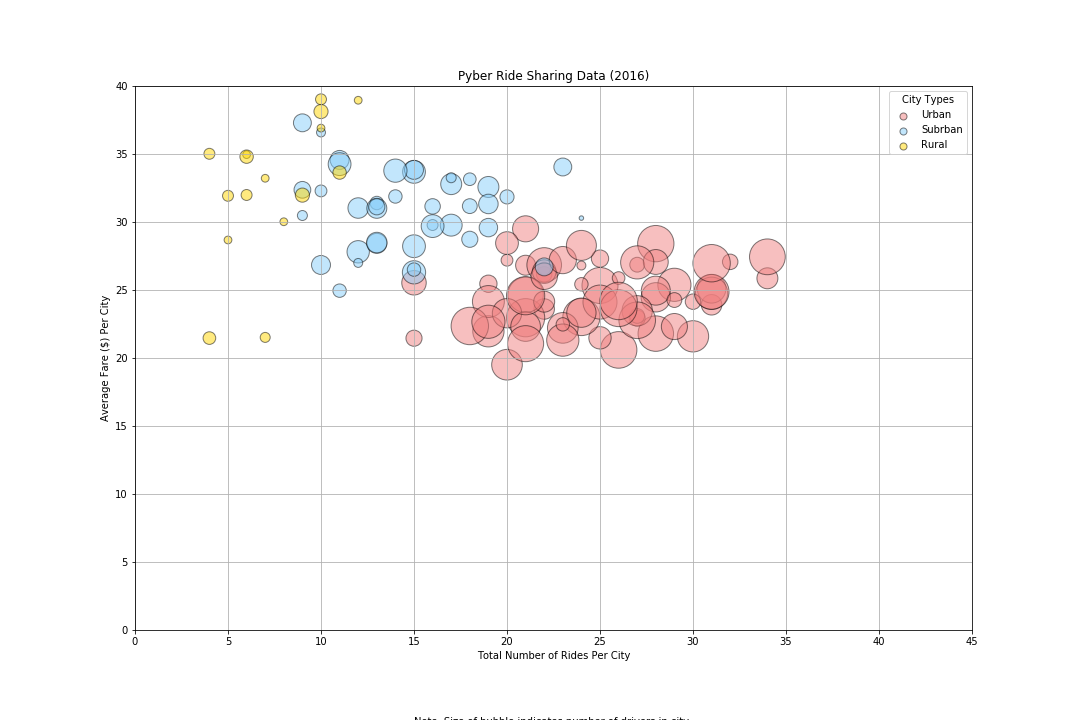
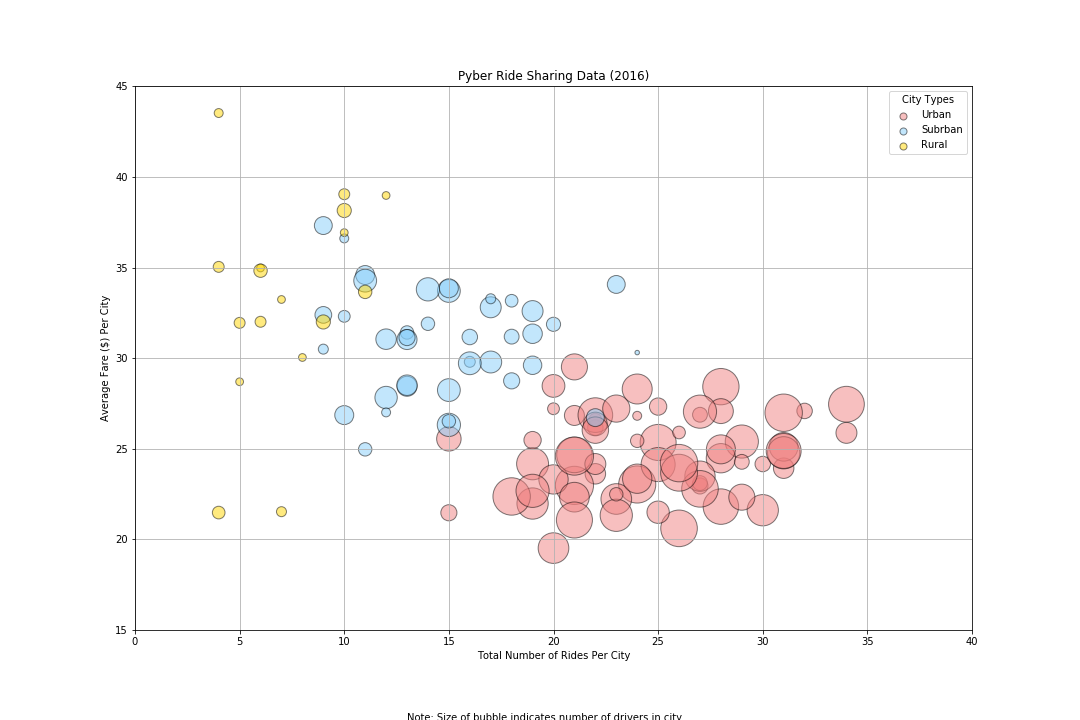
Assignment #5 - Pyber completed

diff --git a/05-MatplotlibInstructions/Pyber.py b/05-MatplotlibInstructions/Pyber.py
@@ -37,7 +37,7 @@ df_city_rides['City Type'] = combined_ride_city.groupby('city')['type'].max()
 df_city_rides.head()
 
 
-# In[20]:
+# In[4]:
 
 
 #Build bubble plots for each city type
@@ -70,11 +70,11 @@ plt.grid()
 plt.title("Pyber Ride Sharing Data (2016)")
 plt.xlabel("Total Number of Rides Per City")
 plt.ylabel("Average Fare ($) Per City")
-plt.xlim (0,45)
-plt.ylim (0,40)
+plt.xlim (0,40)
+plt.ylim (15,45)
 
 note = ("Note: Size of bubble indicates number of drivers in city")
-plt.text (15, -7, note, wrap = True)
+plt.text (13,10, note, wrap = True)
 
 lgnd=plt.legend(loc="upper right", title="City Types", scatterpoints=1)
 lgnd.legendHandles[0]._sizes = [50]
@@ -133,7 +133,7 @@ plt.axis("equal")
 plt.show()
 
 
-# In[38]:
+# In[9]:
 
 
 # Calculate the total drivers by city type
@@ -141,14 +141,14 @@ df_drivers_per_type = pd.DataFrame(df_city_rides.groupby('City Type')['Total Num
 df_drivers_per_type
 
 
-# In[39]:
+# In[10]:
 
 
 # Create a pie chart based upon Total Drivers
 explode = [0.1,0,0]
 colors = ["Gold", "lightskyblue", "lightcoral"]
 
-plt.pie(df_drivers_per_type['Total Number of Drivers Per City'], explode=explode, labels=df_total_drivers_type.index, colors=colors,
+plt.pie(df_drivers_per_type['Total Number of Drivers Per City'], explode=explode, labels=df_drivers_per_type.index, colors=colors,
         autopct='{:.1f}%'.format, shadow=True, startangle=140)
 plt.title("% of Total Drivers by City Type")
 plt.axis("equal")
